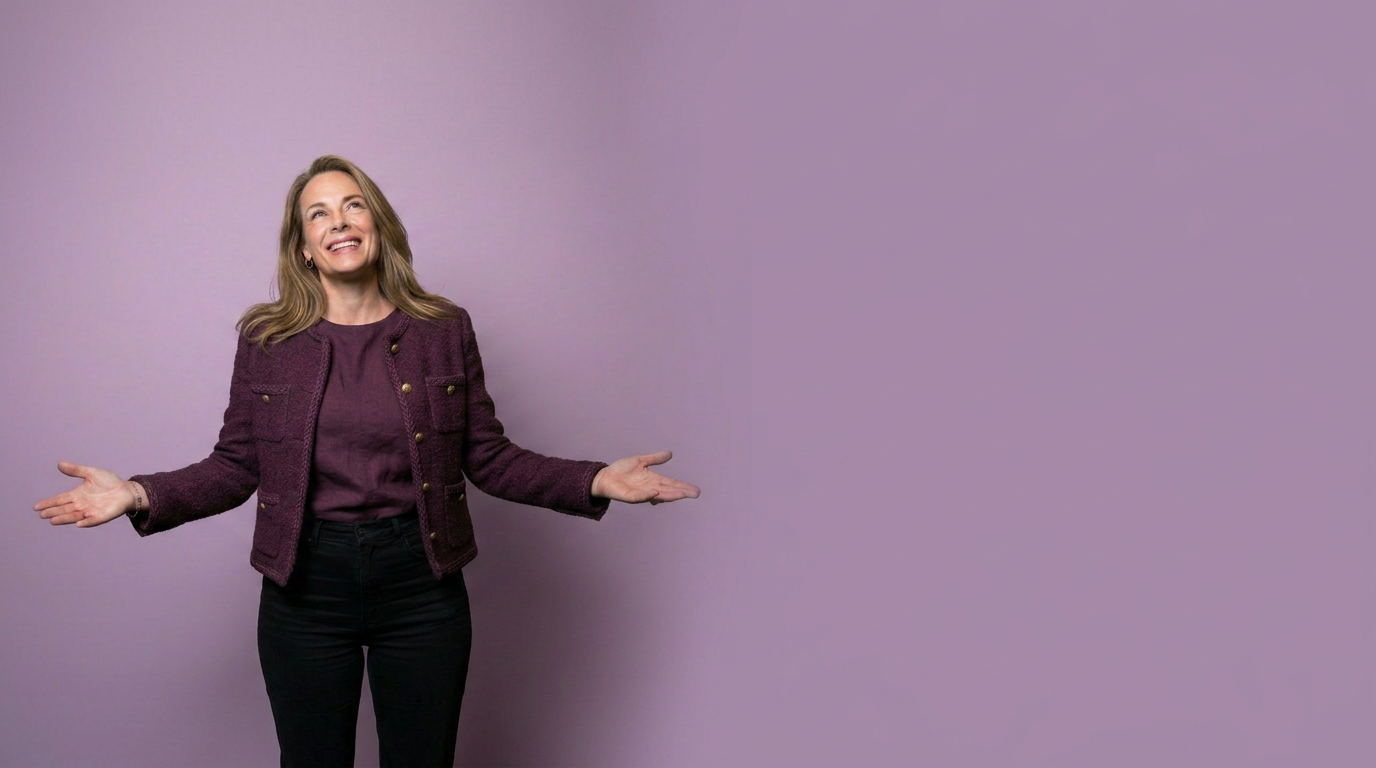
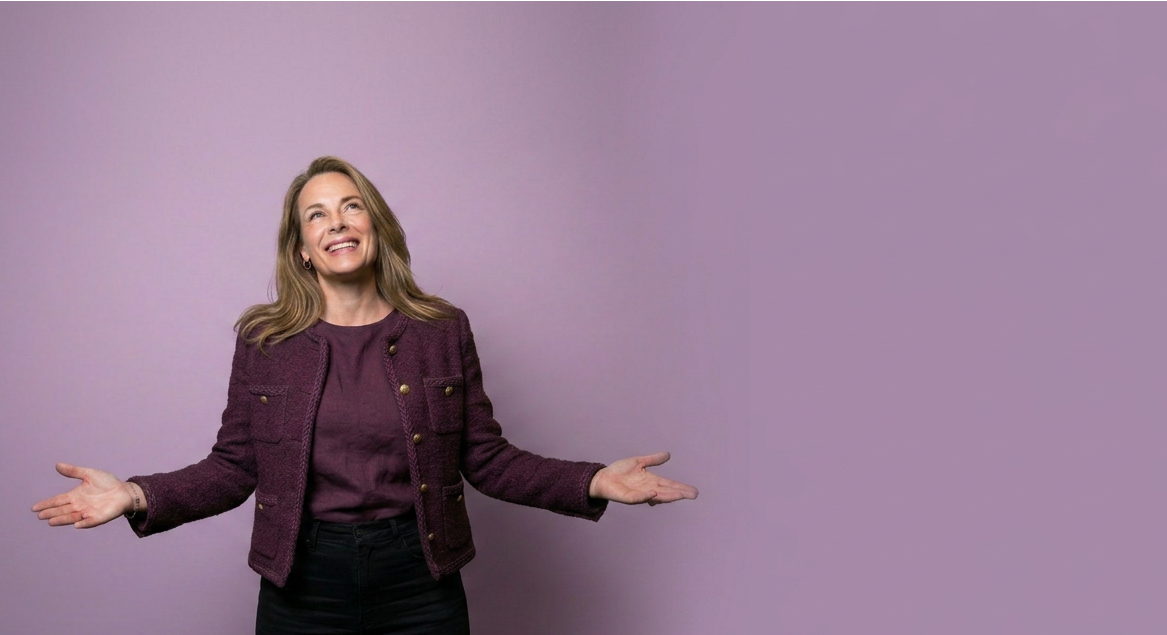
Add files via upload

Changed region(s): [[0.0308, 0.1795, 0.617, 1.0]]

diff --git a/site/visible-authority-intensive.html b/site/visible-authority-intensive.html
@@ -1,0 +1,169 @@
+<!DOCTYPE html>
+<html lang="en">
+<head>
+<!-- Google Tag Manager -->
+<script>(function(w,d,s,l,i){w[l]=w[l]||[];w[l].push({'gtm.start':
+new Date().getTime(),event:'gtm.js'});var f=d.getElementsByTagName(s)[0],
+j=d.createElement(s),dl=l!='dataLayer'?'&l='+l:'';j.async=true;j.src=
+'https://www.googletagmanager.com/gtm.js?id='+i+dl;f.parentNode.insertBefore(j,f);
+})(window,document,'script','dataLayer','GTM-MBT56NQB');</script>
+<!-- End Google Tag Manager -->
+<!-- Google Analytics 4 (gtag.js) -->
+<script async src="https://www.googletagmanager.com/gtag/js?id=G-D9Y8X6ZYY5"></script>
+<script>
+  window.dataLayer = window.dataLayer || [];
+  function gtag(){dataLayer.push(arguments);}
+  gtag('js', new Date());
+  gtag('config', 'G-D9Y8X6ZYY5');
+</script>
+<!-- End Google Analytics 4 -->
+
+<meta charset="UTF-8">
+<meta name="viewport" content="width=device-width, initial-scale=1.0">
+<title>Visible Authority Intensive — Private Strategy with Viveka von Rosen</title>
+<meta name="description" content="Three private 90-minute strategy sessions to clarify your message, rebuild your visibility, and turn decades of expertise into traction. $2,000, or $1,500 for VIOS grads.">
+<link rel="preconnect" href="https://fonts.googleapis.com">
+<link rel="preconnect" href="https://fonts.gstatic.com" crossorigin>
+<link href="https://fonts.googleapis.com/css2?family=Bebas+Neue&family=Lato:ital,wght@0,400;0,700;1,400&family=Playfair+Display:ital@0;1&display=swap" rel="stylesheet">
+<link rel="stylesheet" href="css/styles.css">
+<link rel="icon" type="image/png" href="images/logo-bird.png">
+</head>
+<body>
+<!-- Google Tag Manager (noscript) -->
+<noscript><iframe src="https://www.googletagmanager.com/ns.html?id=GTM-MBT56NQB"
+height="0" width="0" style="display:none;visibility:hidden"></iframe></noscript>
+<!-- End Google Tag Manager (noscript) -->
+
+
+<header class="site-header">
+  <div class="wrap">
+    <a class="brand" href="index.html"><img class="brand-mark" src="images/logo-bird.png" alt="">VIVEKA <span>VON ROSEN</span></a>
+    <button class="nav-toggle" aria-label="Menu">☰</button>
+    <nav class="nav">
+      <a href="work-with-me.html" class="active">Work With Me</a>
+      <a href="about.html">About</a>
+      <a href="speaking.html">Speaking</a>
+      <a href="events.html">Events</a>
+      <a href="blog.html">Articles</a>
+      <a class="btn" href="contact.html">Let's Talk</a>
+    </nav>
+  </div>
+</header>
+
+<section class="hero center hero--photo" role="img" aria-label="Viveka von Rosen working one-on-one with a client across a table">
+  <div class="wrap">
+    <span class="eyebrow">Private Strategy Intensive</span>
+    <h1>Visible Authority Intensive</h1>
+    <hr class="gold-rule">
+    <p class="lead">Three private 90-minute strategy sessions to clarify your message, rebuild your visibility, and turn the expertise you already have into real momentum.</p>
+    <p class="hero-cta">
+      <a class="btn btn--gold" href="https://buy.stripe.com/6oUaEW40J2PWcQz21Q8AE05" target="_blank" rel="noopener">Enroll Now — Secure Your Spot</a>
+    </p>
+  </div>
+</section>
+
+<section class="section section--tight" style="background:#fff">
+  <div class="wrap center">
+    <span class="eyebrow">Who It's For</span>
+    <h2>Are you done circling your next chapter?<br>It's time to build it. Let's do it together.</h2>
+    <hr class="gold-rule">
+    <p class="lead">For accomplished women with decades of real expertise who need help packaging it clearly and getting it seen — without turning into a full-time content machine. We work fast, in the room together, and you leave with a plan you can actually use.</p>
+  </div>
+</section>
+
+<section class="section">
+  <div class="wrap">
+    <span class="eyebrow">What We Do Together</span>
+    <h2>Three sessions, one clear outcome</h2>
+    <hr class="gold-rule">
+    <div class="grid-3" style="margin-top:36px">
+      <div class="card">
+        <span class="rung-label">Session One</span>
+        <h3>Clarify</h3>
+        <ul>
+          <li>Lock your message and direction</li>
+          <li>A positioning statement you can actually use</li>
+          <li>The right people understand what you do, fast</li>
+        </ul>
+      </div>
+      <div class="card">
+        <span class="rung-label">Session Two</span>
+        <h3>Strengthen</h3>
+        <ul>
+          <li>Rebuild your LinkedIn profile end to end</li>
+          <li>A visibility plan that fits your voice</li>
+          <li>Authority that shows up where it counts</li>
+        </ul>
+      </div>
+      <div class="card">
+        <span class="rung-label">Session Three</span>
+        <h3>Build</h3>
+        <ul>
+          <li>A content strategy you'll keep up with</li>
+          <li>The tools and systems to make it run</li>
+          <li>Momentum, not another to-do list</li>
+        </ul>
+      </div>
+    </div>
+    <p class="note center" style="margin-top:28px">After every session you get customized notes, recommendations, and your next steps in writing.</p>
+  </div>
+</section>
+
+<section class="section" style="background:#fff">
+  <div class="wrap center">
+    <span class="eyebrow">The Details</span>
+    <h2>Visible Authority Intensive</h2>
+    <hr class="gold-rule">
+    <p class="lead">Three 60–90 minute sessions on Zoom, or a half-day in person. Yours at your pace, usually over four to six weeks.</p>
+    <p class="price" style="font-size:2.2rem; margin-top:10px">$2,000 <span style="font-size:1.2rem">· $1,500 for VIOS grads</span></p>
+    <p class="hero-cta" style="margin-top:24px">
+      <a class="btn btn--gold" href="https://buy.stripe.com/6oUaEW40J2PWcQz21Q8AE05" target="_blank" rel="noopener">Enroll Now — Secure Your Spot</a>
+    </p>
+    <p class="note" style="margin-top:18px">Not sure this is the right fit? <a href="contact.html">Book a free discovery call</a> and we'll figure out where to start.</p>
+  </div>
+</section>
+
+<footer class="site-footer">
+  <div class="wrap">
+    <div class="footer-grid">
+      <div>
+        <img class="footer-mark" src="images/logo-bird.png" alt="Viveka von Rosen"><h4>Viveka von Rosen</h4>
+        <p style="font-size:.95rem">LinkedIn and AI strategy for women founders. Turn your wisdom into traction.</p>
+        <p style="font-size:.95rem"><a href="https://vivekavonrosen.substack.com" target="_blank" rel="noopener">Substack</a> · <a href="https://www.linkedin.com/in/linkedinexpert/" target="_blank" rel="noopener">LinkedIn</a> · <a href="https://www.youtube.com/@Viveka_von_Rosen" target="_blank" rel="noopener">YouTube</a></p>
+      </div>
+      <div>
+        <h4>Work</h4>
+        <ul>
+          <li><a href="work-with-me.html">Work With Me</a></li>
+          <li><a href="speaking.html">Speaking</a></li>
+          <li><a href="events.html">Events</a></li>
+          <li><a href="press.html">Press</a></li>
+        </ul>
+      </div>
+      <div>
+        <h4>Resources</h4>
+        <ul>
+          <li><a href="blog.html">Articles</a></li>
+          <li><a href="books.html">Books</a></li>
+          <li><a href="podcast.html">Grey Matters Podcast</a></li>
+          <li><a href="https://vivekavonrosen.substack.com" target="_blank" rel="noopener">Substack</a></li>
+        </ul>
+      </div>
+      <div>
+        <h4>Connect</h4>
+        <ul>
+          <li><a href="about.html">About</a></li>
+          <li><a href="contact.html">Contact</a></li>
+          <li><a href="https://www.beyondthedreamboard.com/btdb-meditation" target="_blank" rel="noopener">Free Guided Meditation</a></li>
+        </ul>
+      </div>
+    </div>
+    <div class="footer-legal">
+      <span>© 2026 Viveka von Rosen. All rights reserved.</span>
+      <span><a href="privacy.html">Privacy Policy</a> · <a href="terms.html">Terms &amp; Conditions</a></span>
+    </div>
+  </div>
+</footer>
+
+</body>
+</html>

diff --git a/site/work-with-me.html b/site/work-with-me.html
@@ -56,7 +56,7 @@ height="0" width="0" style="display:none;visibility:hidden"></iframe></noscript>
     <h1>Build the authority business your expertise already deserves</h1>
     <hr class="gold-rule">
     <p class="lead">You've spent twenty-plus years getting good at what you do. The expertise is already there — the business just hasn't caught up to it yet.</p>
-    <p><a class="btn btn--gold" href="#pathway">See the Ways to Work Together</a></p>
+    <p><a class="btn btn--gold" href="#wtic">See the Ways to Work Together</a></p>
   </div>
 </section>
 
@@ -105,7 +105,7 @@ height="0" width="0" style="display:none;visibility:hidden"></iframe></noscript>
           <li>Full resource library and implementation support</li>
           <li>Visibility Infrastructure OS included</li>
         </ul>
-        <a class="btn" href="https://www.skool.com/womens-tech-collaborative-2106" target="_blank" rel="noopener">Join WTIC Pro</a>
+        <a class="btn" href="https://www.skool.com/womens-tech-collaborative-2106/how-to-upgrade-to-premium?p=9677ddae" target="_blank" rel="noopener">Join WTIC Pro</a>
       </div>
     </div>
   </div>
@@ -148,7 +148,7 @@ height="0" width="0" style="display:none;visibility:hidden"></iframe></noscript>
           <li>Locked positioning statement</li>
           <li>Rebuilt LinkedIn profile and content strategy</li>
         </ul>
-        <a class="btn" href="contact.html">Learn More &amp; Book</a>
+        <a class="btn" href="visible-authority-intensive.html">Learn More &amp; Book</a>
       </div>
     </div>
     <p class="note center" style="margin-top:28px; font-size:1.76rem"><a href="https://www.beyondthedreamboard.com/vios-example" target="_blank" rel="noopener">See a sample VIOS playbook</a> — an actual walkthrough, so you know what you're getting.</p>

diff --git a/site/css/styles.css b/site/css/styles.css
@@ -340,6 +340,7 @@ strong{ color:var(--p-purple); }
 .btn--ghost-light:hover{ background:rgba(255,255,255,.12) !important; color:#fff !important; border-color:#fff; }
 /* let the two hero buttons wrap and breathe */
 .hero-cta{ display:flex; flex-wrap:wrap; gap:14px; align-items:center; }
+.center .hero-cta{ justify-content:center; }
 
 /* white hero: drop the lavender spotlight, ground her with a soft neutral shadow */
 .hero--purple .hero-figure::before{ display:none; }